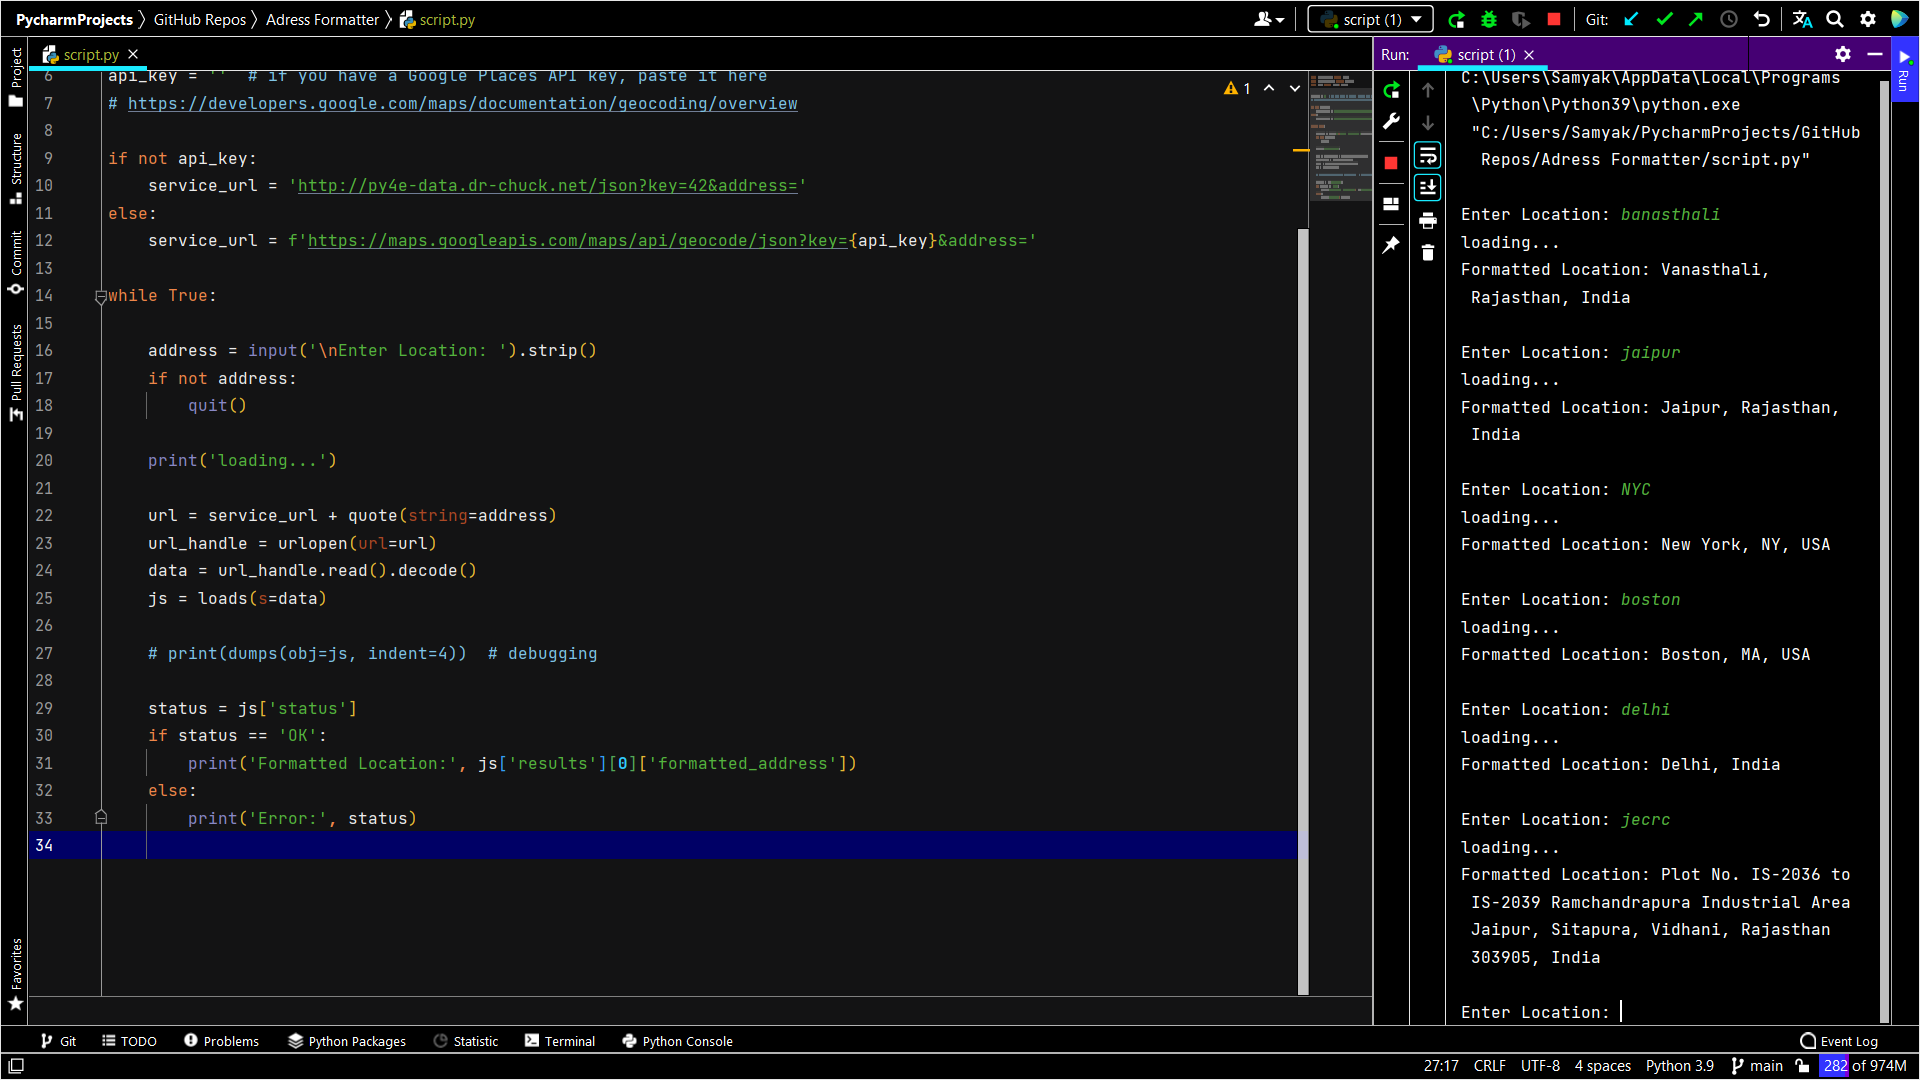
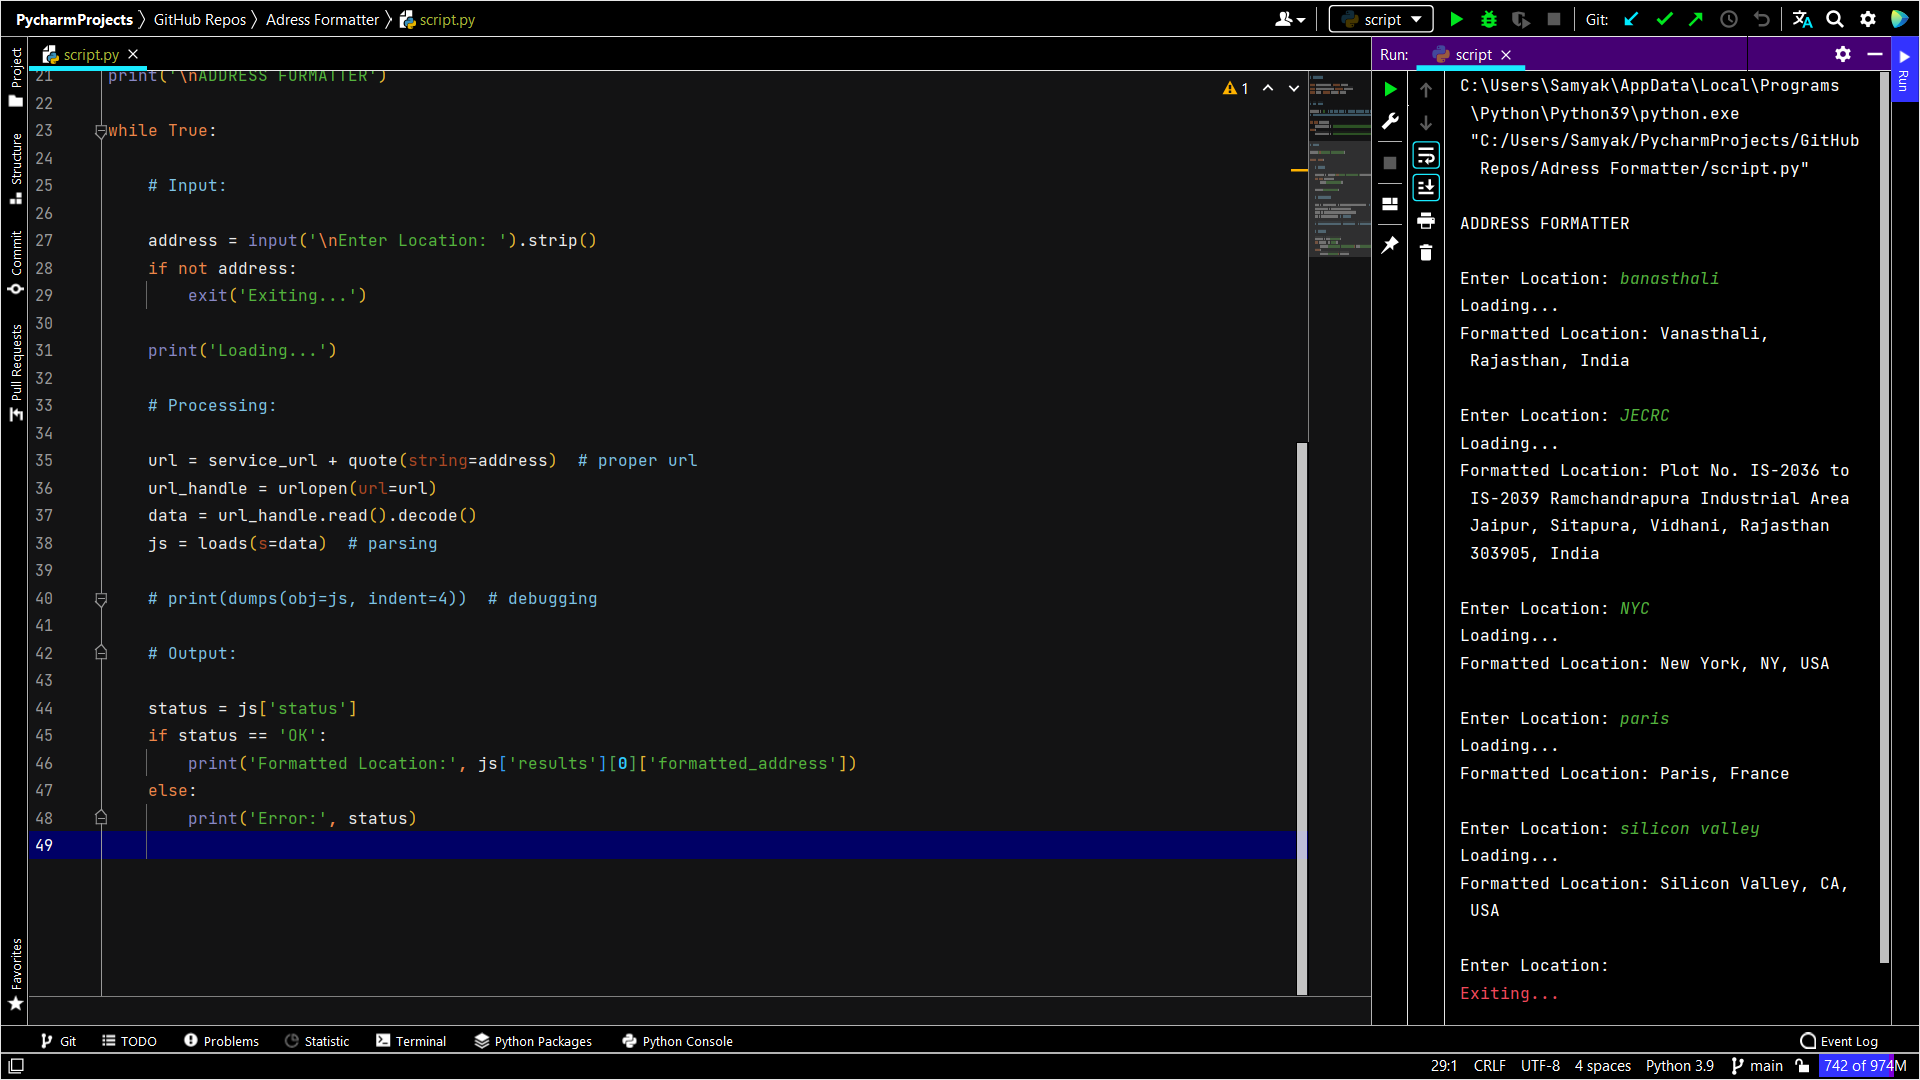
minor changes

diff --git a/script.py b/script.py
@@ -1,7 +1,11 @@
+# Imports:
+
 from urllib.parse import quote
 from urllib.request import urlopen
 from json import loads, dumps
 
+
+# API Key:
 
 api_key = ''  # if you have a Google Places API key, paste it here
 # https://developers.google.com/maps/documentation/geocoding/overview
@@ -11,20 +15,31 @@ if not api_key:
 else:
     service_url = f'https://maps.googleapis.com/maps/api/geocode/json?key={api_key}&address='
 
+
+# Main:
+
+print('\nADDRESS FORMATTER')
+
 while True:
+
+    # Input:
 
     address = input('\nEnter Location: ').strip()
     if not address:
-        quit()
+        exit('Exiting...')
 
-    print('loading...')
+    print('Loading...')
 
-    url = service_url + quote(string=address)
+    # Processing:
+
+    url = service_url + quote(string=address)  # proper url
     url_handle = urlopen(url=url)
     data = url_handle.read().decode()
-    js = loads(s=data)
+    js = loads(s=data)  # parsing
 
     # print(dumps(obj=js, indent=4))  # debugging
+
+    # Output:
 
     status = js['status']
     if status == 'OK':
